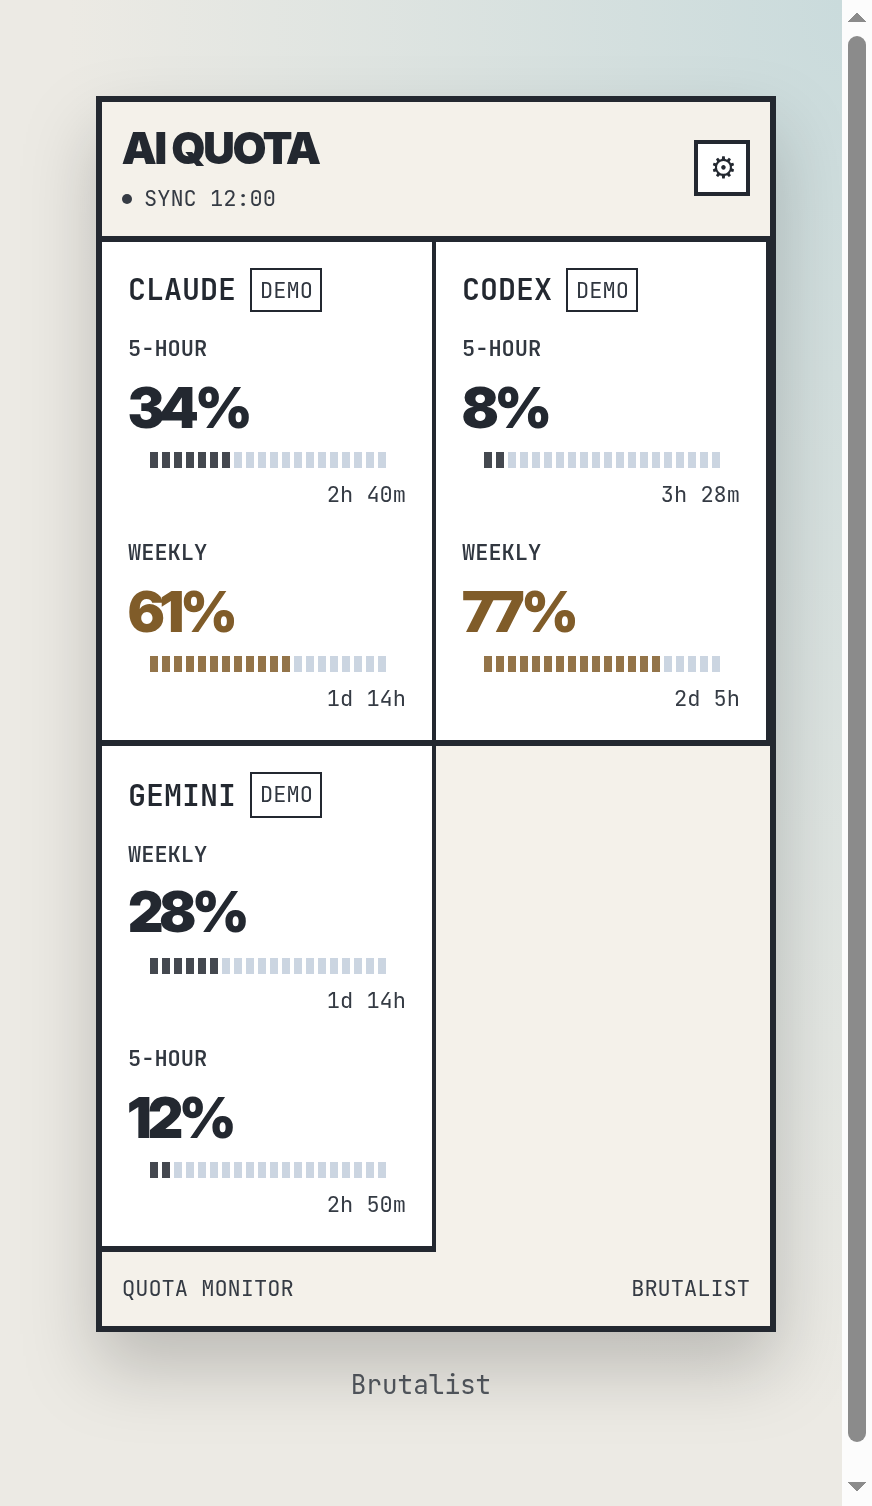
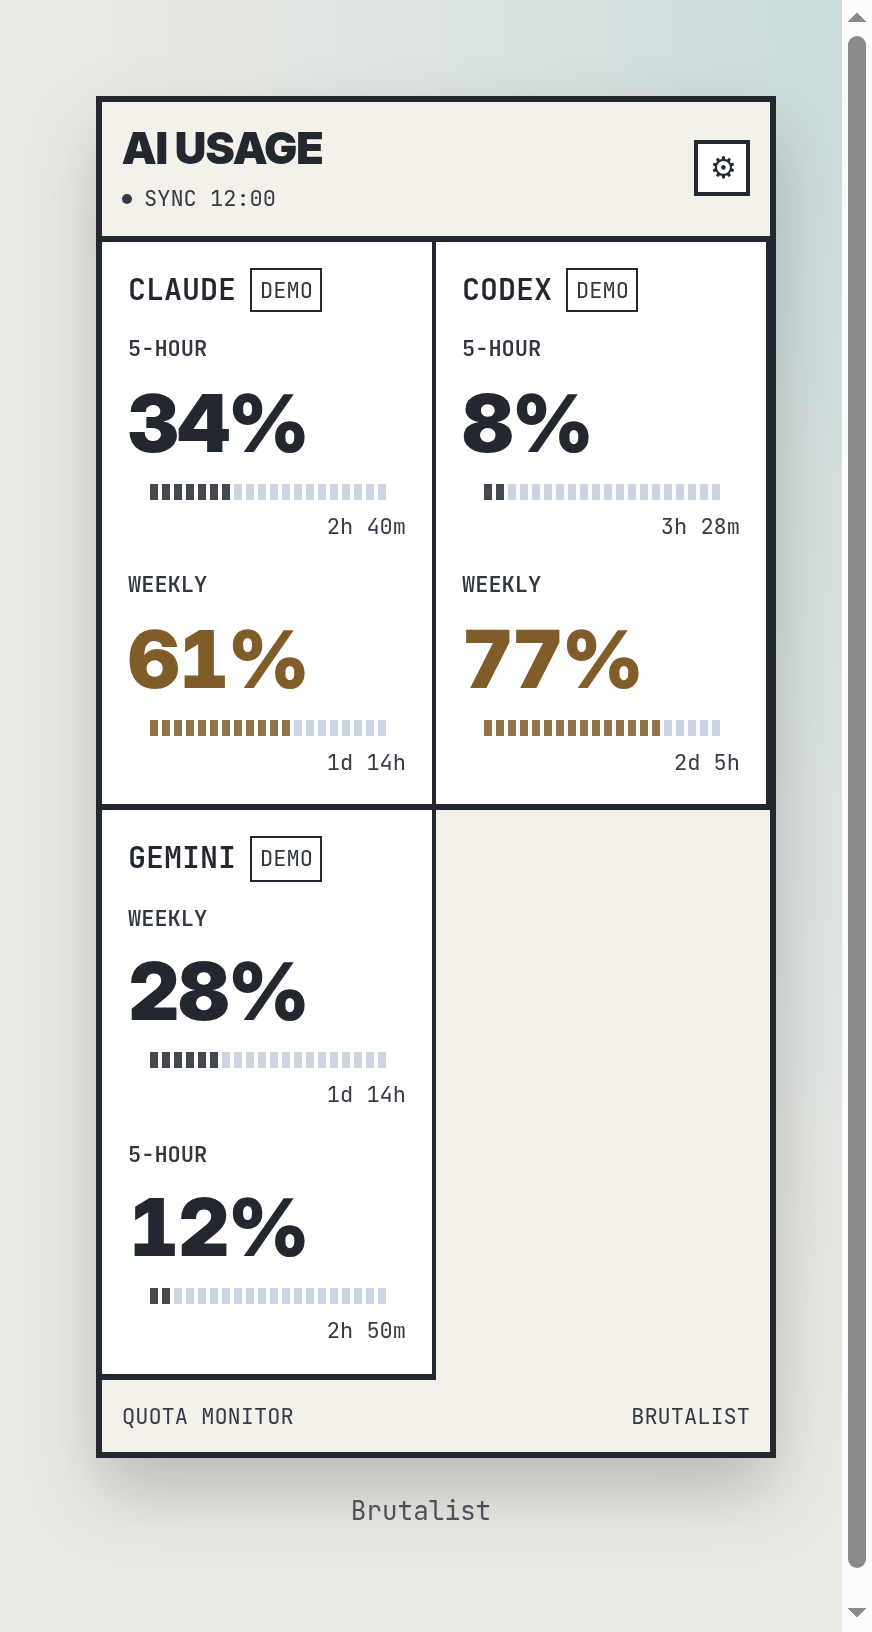
docs(readme): show more themes and palettes across the page

diff --git a/README.md b/README.md
@@ -1,11 +1,11 @@
 <p align="center">
   <picture>
     <source media="(prefers-color-scheme: light)" srcset="docs/assets/logo-light.svg">
-    <img src="docs/assets/logo.svg" width="104" alt="AI Quota Widget logo">
+    <img src="docs/assets/logo.svg" width="104" alt="AI Usage logo">
   </picture>
 </p>
-<h1 align="center">AI Quota Widget</h1>
-<p align="center">Your AI quotas, right on your desktop — usage windows and reset countdowns for Windows and Linux.</p>
+<h1 align="center">AI Usage</h1>
+<p align="center">Your usage limits, right on your desktop — usage windows and reset countdowns for Windows and Linux.</p>
 <p align="center">
   <a href="#install"><img src="docs/assets/release.svg" alt="Release: v0.1 coming"></a>
   <a href="#platforms"><img src="docs/assets/platforms.svg" alt="Platforms: Windows and Linux"></a>
@@ -14,14 +14,15 @@
 <p align="center">
   <picture>
     <source media="(prefers-color-scheme: light)" srcset="docs/screenshots/hero-light.png">
-    <img src="docs/screenshots/hero-dark.png" width="1000" alt="System theme on a desktop background with fictional quota data">
+    <img src="docs/screenshots/hero-dark.png" width="1000" alt="AI Usage logo beside Dot Matrix in the orange Ember palette; fictional data">
   </picture>
 </p>
+<p align="center"><sub>Dot Matrix · Ember · Vivid · fictional data</sub></p>
 <p align="center"><a href="#install">Download</a> · <a href="#quick-start">Quick start</a> · <a href="docs/providers.md">Docs</a></p>
 
 Keep Claude Code, Codex and Gemini quota windows visible while you work. A compact desktop widget shows how much is used, when limits reset, and when a source needs attention. Resize it for a small glanceable display or keep detailed cards beside your editor. Panel integrations share the same local snapshot.
 
-Pre-release: installers are coming with v0.1. The working name is provisional. Gallery values are fictional; provider and desktop validation are listed below.
+Pre-release: installers are coming with v0.1. Gallery values are fictional; provider and desktop validation are listed below.
 
 ## Install
 
@@ -54,34 +55,53 @@ Open Vite's displayed URL with `?sample` to see fictional data. For a native sou
 
 ## Make it yours
 
-### Themes
+### A size for every workspace
 
-System is the default: it fits your desktop with system fonts, light/dark appearance and the system accent where supported. Choose from nine built-in themes: System, Dot Matrix, Circular Rings, Terminal, Frosted Glass, Brutalist, Compact Strip, Retro LCD and Minimal Pace. The Theme cards at the top of Settings switch the layout immediately. Each theme supports Auto, Light and Dark appearance; the palette list follows the selected theme. Compact Strip becomes horizontal in wide windows. Minimal Pace compares usage with elapsed session or weekly time; unknown intervals remain marked unavailable.
+Keep a compact row beside your editor or expand into detailed cards. Each theme uses the same local data.
 
-<picture>
-  <source media="(prefers-color-scheme: light)" srcset="docs/screenshots/themes-light.png">
-  <img src="docs/screenshots/themes.png" alt="Nine selectable application themes with fictional quota data" width="1100">
-</picture>
+![Four different themes at XS, S, M and L window sizes](docs/screenshots/sizes.png)
+<sub>XS: Terminal / Phosphor · S: Retro LCD / Liquid Crystal, Light · M: Frosted Glass / Acrylic · L: Brutalist / Acid. Vivid, fictional data.</sub>
 
-[Individual dark and light captures](docs/screenshots/themes/) · [Light gallery](docs/screenshots/themes-light.png)
+Scale text and spacing together from 50% to 300%, with presets or Ctrl +/− and Ctrl+0. Numbers keep their proportions at every size.
 
-### Colors and sizing
+![Three themes at 75, 100 and 150 percent scale](docs/screenshots/scale.png)
+<sub>75%: Circular Rings / Ocean · 100%: Dot Matrix / Sakura Pink, Light · 150%: Minimal Pace / Emerald, Light. Vivid, fictional data.</sub>
 
-Dot Matrix starts with neutral Slate and includes Signal Orange, Sakura Pink, Nord and Mono Paper; the other themes include a palette matched to their design. Calm is the default: neutral usage below 50%, soft amber from 50%, and muted red from 80%. Choose Vivid in Settings → Look for the original colors, or Mono for pure black and white surfaces with hollow warning marks and inverse percentage capsules from 80%. The accent edge starts off; Auto follows the selected left/right corner and disappears in Free placement, or you can choose a fixed side. Accent and background colors can be overridden. Separate widget and background opacity controls let you tune transparency while keeping text readable. These controls change opacity, not monitor brightness or compositor blur.
+### Find your signal
 
-![All nine themes in Mono with fictional quota data](docs/screenshots/mono.png)
+Choose a quiet Calm look, colorful Vivid palettes or pure black and white Mono. Nine themes change the layout as well as the colors. Theme cards in Settings switch designs immediately; every theme supports Auto, Light and Dark appearance.
 
-![Four palette variants of the real widget](docs/screenshots/palettes.png)
+![Pink, Nord, blue glass and acid palette examples](docs/screenshots/palettes.png)
+<sub>Dot Matrix / Sakura Pink, Light · Dot Matrix / Nord · Frosted Glass / Acrylic · Brutalist / Acid. Vivid, fictional data.</sub>
 
-Scale from 50% to 300% with presets or Ctrl +/− and Ctrl+0. Text, spacing and meter marks scale through rem-based layout without CSS zoom. Dot count is fixed at 20 (10 in XS), with 10/20/30 choices under Look. Optional “Match physical size across monitors” compensates the reported monitor scale factor; see the [design standard and DPI limits](docs/design-spec.md). Fit height to content, choose a corner, or use supported free placement.
+### Know when data needs attention
 
-![Widget at 75, 100 and 150 percent scale](docs/screenshots/scale.png)
-![XS, S, M and L responsive layouts](docs/screenshots/sizes.png)
+Cached data stays marked, sign-in failures ask for attention, and unavailable quotas never become zero. Providers without an active subscription stay hidden.
+
+![Terminal and Retro LCD show cached, sign-in and rate-limit states](docs/screenshots/states.png)
+<sub>Terminal / Phosphor, Dark · Retro LCD / Liquid Crystal, Light. Vivid, fictional data.</sub>
+
+### Your desktop, your settings
+
+Change palette, opacity, scale and placement in one panel. Calm uses neutral usage ink below 50%, soft amber from 50% and muted red from 80%. Mono adds hollow warning marks and inverse percentage labels. Choose 10, 20 or 30 meter marks; XS uses 10. Optional monitor scale compensation and the fixed type scale are explained in the [design standard](docs/design-spec.md).
 
 <picture>
   <source media="(prefers-color-scheme: light)" srcset="docs/screenshots/settings-light.png">
-  <img src="docs/screenshots/settings-dark.png" alt="Widget and scrollable display settings panel" width="900">
+  <img src="docs/screenshots/settings-dark.png" alt="AI Usage widget and display settings in two theme variants" width="980">
 </picture>
+<sub>Dark: Circular Rings / Ocean · Light: Frosted Glass / Acrylic. Vivid, fictional data.</sub>
+
+Prefer the familiar? System uses your desktop font, light/dark appearance and system accent where supported. It is the default theme.
+
+![System theme adapts to light and dark desktop appearance](docs/screenshots/system.png)
+<sub>System / Desktop · Light and Dark · Calm · fictional data.</sub>
+
+### Nine designs, one snapshot
+
+![Nine themes in two rows, mixing light and dark appearance](docs/screenshots/themes.png)
+<sub>Top: System, Dot Matrix / Sakura Pink, Circular Rings, Terminal, Frosted Glass. Bottom: Brutalist, Compact Strip, Retro LCD, Minimal Pace. Alternating Dark / Light, Vivid, fictional data.</sub>
+
+[Individual light and dark captures](docs/screenshots/themes/) · [Alternate gallery](docs/screenshots/themes-light.png) · [All themes in Mono](docs/screenshots/mono.png)
 
 Windows has an optional taskbar strip with independent provider, window and theme settings. Linux integrations include KDE Plasma, GNOME Shell, Waybar, Polybar and i3blocks. The following taskbar/panel images are HTML illustrations using fictional data; native rendering and desktop compatibility need separate testing.
 
@@ -89,9 +109,12 @@ Windows has an optional taskbar strip with independent provider, window and them
   <source media="(prefers-color-scheme: light)" srcset="docs/screenshots/taskbar-light.png">
   <img src="docs/screenshots/taskbar-dark.png" alt="Windows 11 taskbar strip layout illustration" width="1100">
 </picture>
+<sub>Windows taskbar strip · desktop Light / Dark · HTML illustration, fictional data.</sub>
 
 ![KDE Breeze compact panel layout illustration](docs/screenshots/kde-panel.png)
+<sub>KDE Breeze Light · HTML illustration, fictional data.</sub>
 ![Waybar compact output illustration](docs/screenshots/waybar.png)
+<sub>Waybar Dark · HTML illustration, fictional data.</sub>
 
 See [configuration](docs/configuration.md) for every setting and environment override.
 

diff --git a/docs/tools/README.md b/docs/tools/README.md
@@ -12,13 +12,13 @@ Every run uses a fresh temporary browser profile; locale, timezone and clock are
 
 Output is `docs/screenshots/*.png`. All scenes use 2× device scale except the social card, which is exactly 1280×640 for GitHub upload. SVG logos remain vector assets. Change a fixture, palette or frame size in the script and rerun; launch it from any working directory. Generated screenshots are intentional versioned documentation assets, not runtime output.
 
-Hero, size, palette, scale, state and settings scenes embed the **built application UI**. Taskbar, KDE Breeze and Waybar scenes are HTML illustrations, not native desktop captures. `NO_SUBSCRIPTION` is hidden by the actual renderer; the states image explains it with an external badge instead of fabricating a provider card. Settings screenshots show the top of a scrollable panel. The original design references live under `tasarim/v3/panel/`.
+Hero, size, palette, scale, state and settings scenes embed the **built application UI**. Taskbar, KDE Breeze and Waybar scenes are HTML illustrations, not native desktop captures. `NO_SUBSCRIPTION` is hidden by the actual renderer; the states image shows stale, authentication and rate-limit states in Terminal and Retro LCD. Settings screenshots show the top of a scrollable panel. The original design references live under `tasarim/v3/panel/`.
 
 Chrome's sandbox stays enabled by default. Restricted development environments can explicitly opt out with `SCREENSHOT_NO_SANDBOX=1`; only use that override with these trusted local fixtures. It needs loopback socket access. In an environment that denies sockets, rerun with the appropriate local execution permission. It does not need internet access once dependencies are present. Browser profile and servers are cleaned up on completion. Inspect every PNG after changing UI or fixtures; native desktop acceptance and design review remain separate.
 
-Theme captures include `themes.png`, `themes-light.png`, and `themes/<id>-dark.png` / `-light.png`. Hero shows the System theme on Windows 11 style light and KDE Breeze style dark desktop backgrounds; social preview combines System with other real themes. `checks/<id>-dark.png` / `-light.png` put the 340/200 px × 100/150% scale combinations side by side (72 cases total). Additional state scenes exercise stale/auth/rate-limit and extra/unknown windows. `checks/results.json` records provider counts, horizontal overflow, minimum visible text/number sizes, secondary text contrast and the one-active-theme-style invariant. The same browser then exercises every theme selector, appearance, 50/300% scale and the extra-window toggle, Color mode and all 12 Accent edge/position combinations. Fit frames are measured after font loading.
+Theme captures include `themes.png`, `themes-light.png`, and `themes/<id>-dark.png` / `-light.png`. Hero and social preview pair the logo with Dot Matrix / Ember on a dark surface. System light/dark stays in `system.png`. Theme galleries mix dark and light designs in two rows; size and scale scenes use a different theme for each frame. `checks/<id>-dark.png` / `-light.png` put the 340/200 px × 100/150% scale combinations side by side (72 cases total). Additional state scenes exercise stale/auth/rate-limit and extra/unknown windows. `checks/results.json` records provider counts, horizontal overflow, minimum visible text/number sizes, secondary text contrast and the one-active-theme-style invariant. The same browser then exercises every theme selector, appearance, 50/300% scale and the extra-window toggle, Color mode and all 12 Accent edge/position combinations. Fit frames are measured after font loading.
 
-All widget scenes use Calm with the accent edge off. `checks/vivid.png` compares Calm and Vivid. Readability checks require labels ≥11 CSS px and primary numbers ≥15 CSS px at 100% (scaled proportionally at 150%), with secondary text contrast ≥4.5:1. Contrast is calculated from computed text colors and composited background-color layers against the least favorable black/white desktop polarity; background images and compositor effects require visual review. `checks/` remains ignored.
+Marketing scenes use Vivid for palette variety; System and check scenes use Calm unless stated otherwise. The accent edge stays off. `checks/vivid.png` compares Calm and Vivid. Readability checks require labels ≥11 CSS px and primary numbers ≥15 CSS px at 100% (scaled proportionally at 150%), with secondary text contrast ≥4.5:1. Contrast is calculated from computed text colors and composited background-color layers against the least favorable black/white desktop polarity; background images and compositor effects require visual review. `checks/` remains ignored.
 
 `SCENE=checks/providers- node docs/tools/screenshots.mjs` captures first-run provider consent in all nine themes in dark/light modes and checks default-off choices, wrapped disclosures and explicit Start behavior. These controls use synthetic detection only.
 
@@ -39,3 +39,10 @@ assert the resolved mode, system font stack, 8 px corners and continuous bars.
 System is excluded from dot-count assertions because its meters are continuous;
 its quota severity thresholds are still checked. Native accent support is recorded
 in the results; actual WebView2/WebKitGTK desktop rendering needs platform checks.
+
+Typography checks use a single “8” probe in every visible numeric style, with
+computed font properties copied from the real number element. DOM rectangle
+height/width ratios are measured at 200/340/520/700 CSS px × 75/100/150% for all
+nine themes. `checks/typography.json` records each measurement; the capture fails
+if the ratio range exceeds 3%. `SCENE=checks/typography` runs just this matrix.
+This measures the glyph layout box, not the image pixel ink bounding box.

diff --git a/docs/design-spec.md b/docs/design-spec.md
@@ -78,3 +78,18 @@ XS tier: their count is explicit rather than derived from monitor width.
 QML lint, JavaScript syntax checks and Windows cross compilation validate these
 integrations statically. Native KDE/GNOME/Windows visual validation is separate
 from the Chromium desktop-gallery checks.
+
+## Numeric typography
+
+Text must not use transform scale, font-stretch or viewport/container width
+units (vw/cqw) for font size. Large numbers use fixed rem steps, tabular numerals,
+letter spacing no tighter than -0.02em and line height at least 1.0. Scale changes
+the root rem size. Narrow windows select a separate fixed step rather than
+continuously stretching type. Numeric font family and weight stay consistent
+across responsive tiers. Retro LCD uses the bundled OFL JetBrains Mono for
+numbers; DotGothic16 remains on decorative headings.
+
+The documentation capture measures a single “8” in each visible numeric style
+using getBoundingClientRect at 200/340/520/700 CSS px and 75/100/150% scale.
+The height/width ratio must stay within ±3% for each theme. Raw measurements
+are written to ignored screenshots/checks/typography.json.

diff --git a/docs/linux.md b/docs/linux.md
@@ -19,7 +19,7 @@ Install the distribution's **GTK3** layer-shell runtime (`libgtk-layer-shell.so.
 
 The settings panel exposes layer, margin and monitor when layer-shell is available. Default is bottom layer, top-right, 12 logical-pixel margin, Auto monitor. The widget reserves no panel space. Free placement is unavailable for layer surfaces. Monitor indices may change after reconnecting displays. Fractional scaling and multiple monitors still need real-session acceptance.
 
-Mutter does not supply this layer-shell path. Use the GNOME panel integration, move the normal window manually, or explicitly try `GDK_BACKEND=x11 ai-quota-widget` if XWayland is installed. The application does not force an X11 fallback. Window managers can override EWMH positioning hints.
+Mutter does not supply this layer-shell path. Use the GNOME panel integration, move the normal window manually, or explicitly try `GDK_BACKEND=x11 ai-usage` if XWayland is installed. The application does not force an X11 fallback. Window managers can override EWMH positioning hints.
 
 ## Shared panel data
 

diff --git a/docs/configuration.md b/docs/configuration.md
@@ -6,7 +6,7 @@ Theme defaults to System when no choice is stored; an existing explicit theme is
 
 ## Display settings
 
-`settings.json` lives in the operating system's config directory under `ai-quota-widget`: Linux `$XDG_CONFIG_HOME/ai-quota-widget` (normally `~/.config/ai-quota-widget`); Windows `%APPDATA%/ai-quota-widget`. Window geometry is saved separately in `window.json`. `QUOTACORE_HOME` does **not** relocate display settings.
+`settings.json` lives in the operating system's config directory under `ai-usage`: Linux `$XDG_CONFIG_HOME/ai-usage` (normally `~/.config/ai-usage`); Windows `%APPDATA%/ai-usage`. Window geometry is saved separately in `window.json`. `QUOTACORE_HOME` does **not** relocate display settings. First launch copies legacy settings and window geometry once, preserving the originals and any existing new settings.
 
 | Field | Default | Meaning |
 | --- | --- | --- |

diff --git a/docs/security-model.md b/docs/security-model.md
@@ -1,6 +1,6 @@
 # Security model
 
-AI Quota Widget runs as the current user. Do not run it elevated. It reads quota
+AI Usage runs as the current user. Do not run it elevated. It reads quota
 metadata and, after provider selection, may use existing credentials to retrieve
 usage or balances. It does not scan conversation history or request model
 completions. There is no application telemetry, analytics, developer upload,

diff --git a/docs/performance.md b/docs/performance.md
@@ -12,7 +12,7 @@ Build with `cd app && npx tauri build --no-bundle`, then from the repository roo
 
 ```sh
 python3 scripts/footprint.py \
-  --binary app/src-tauri/target/release/ai-quota-widget \
+  --binary app/src-tauri/target/release/ai-usage \
   --output /tmp/ai-usage-footprint.json
 bash scripts/memory-soak.sh
 ```
